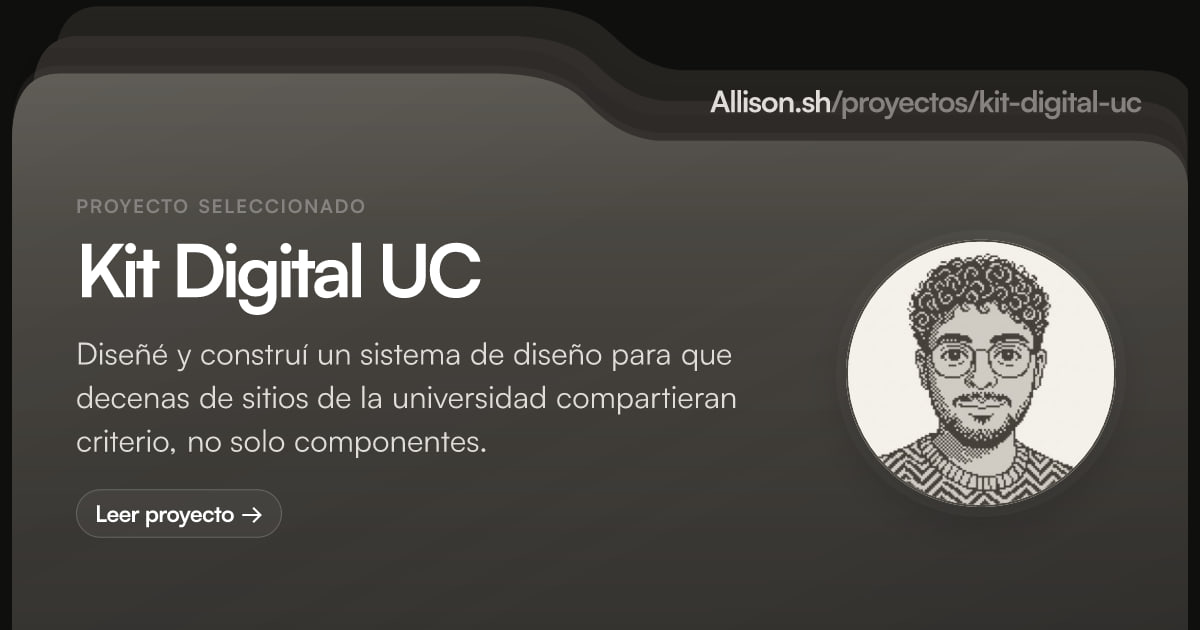
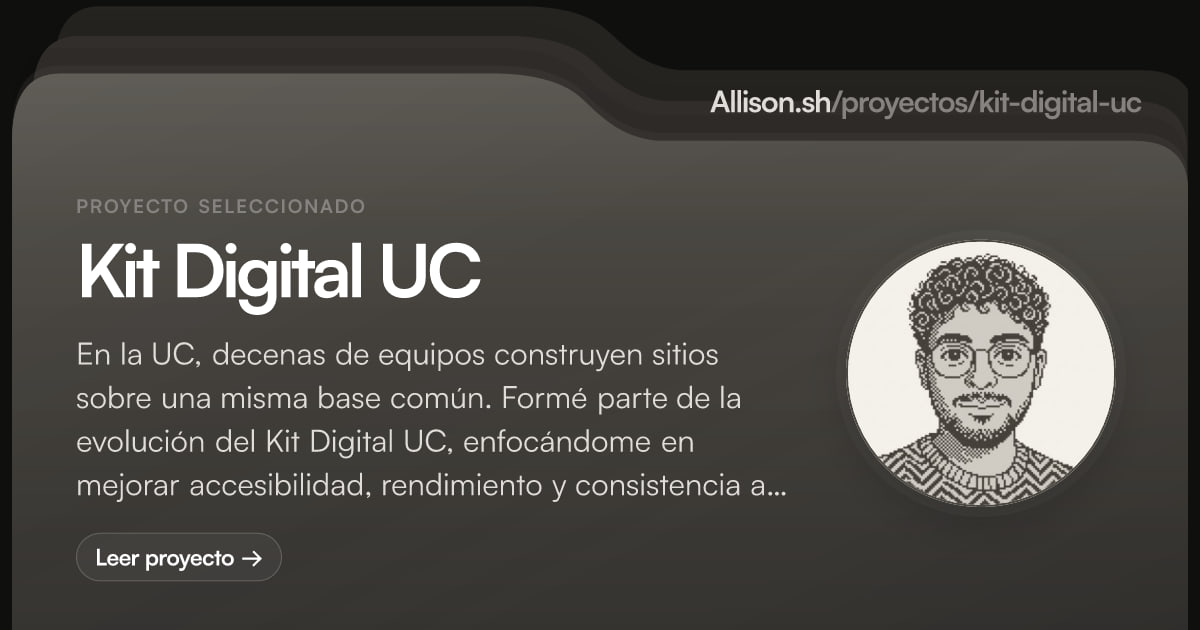
update project styling and layout
- remove duplicate route in astro config
- update project mdx files with new content
- refactor polaroid figure styling and interaction
- adjust viewport gradient

Changed region(s): [[0.0617, 0.5429, 0.6167, 0.7238], [0.0617, 0.754, 0.6475, 0.8444], [0.0617, 0.8746, 0.2158, 0.9048]]

diff --git a/src/styles/global.css b/src/styles/global.css
@@ -144,12 +144,12 @@ body {
   background: linear-gradient(
     to bottom,
     color-mix(in srgb, var(--color-bg) 97%, transparent) 0%,
-    color-mix(in srgb, var(--color-bg) 95%, transparent) 6%,
-    color-mix(in srgb, var(--color-bg) 72%, transparent) 14%,
-    color-mix(in srgb, var(--color-bg) 28%, transparent) 26%,
-    color-mix(in srgb, var(--color-bg) 8%, transparent) 42%,
-    color-mix(in srgb, var(--color-bg) 2%, transparent) 60%,
-    transparent 84%,
+    color-mix(in srgb, var(--color-bg) 95%, transparent) 3%,
+    color-mix(in srgb, var(--color-bg) 72%, transparent) 7%,
+    color-mix(in srgb, var(--color-bg) 28%, transparent) 13%,
+    color-mix(in srgb, var(--color-bg) 8%, transparent) 21%,
+    color-mix(in srgb, var(--color-bg) 2%, transparent) 30%,
+    transparent 42%,
     transparent 100%
   );
 }
@@ -159,13 +159,13 @@ body {
     background: linear-gradient(
       to bottom,
       color-mix(in srgb, var(--color-bg) 88%, transparent) 0%,
-      color-mix(in srgb, var(--color-bg) 80%, transparent) 7%,
-      color-mix(in srgb, var(--color-bg) 54%, transparent) 14%,
-      color-mix(in srgb, var(--color-bg) 24%, transparent) 24%,
-      color-mix(in srgb, var(--color-bg) 9%, transparent) 36%,
-      color-mix(in srgb, var(--color-bg) 3%, transparent) 50%,
-      color-mix(in srgb, var(--color-bg) 1%, transparent) 64%,
-      transparent 82%,
+      color-mix(in srgb, var(--color-bg) 80%, transparent) 3%,
+      color-mix(in srgb, var(--color-bg) 54%, transparent) 7%,
+      color-mix(in srgb, var(--color-bg) 24%, transparent) 12%,
+      color-mix(in srgb, var(--color-bg) 9%, transparent) 18%,
+      color-mix(in srgb, var(--color-bg) 3%, transparent) 25%,
+      color-mix(in srgb, var(--color-bg) 1%, transparent) 32%,
+      transparent 41%,
       transparent 100%
     );
   }
@@ -508,14 +508,10 @@ html.dark #theme-toggle .moon-icon {
 
 .polaroid-figure__frame {
   position: relative;
-  padding: 8px;
-  padding-bottom: var(--polaroid-bottom);
-  background: color-mix(in srgb, var(--color-bg) 90%, var(--color-text) 10%);
-  border: 1px solid color-mix(in srgb, var(--color-text) 3%, transparent);
-  border-radius: 4px;
-  box-shadow:
-    0 1px 3px color-mix(in srgb, var(--color-text) 6%, transparent),
-    0 4px 14px color-mix(in srgb, var(--color-text) 5%, transparent);
+  background: transparent;
+  border-color: transparent;
+  box-shadow: none;
+  padding: 0;
 }
 
 .polaroid-figure__frame {
@@ -540,10 +536,6 @@ html.dark #theme-toggle .moon-icon {
     position: absolute;
     top: 0;
     width: clamp(180px, 17vw, 260px);
-    background: transparent;
-    border-color: transparent;
-    box-shadow: none;
-    padding: 0;
     opacity: 0;
     transform: translateY(10px);
     transition: opacity 600ms ease, transform 600ms cubic-bezier(0.16, 1, 0.3, 1);
@@ -555,9 +547,6 @@ html.dark #theme-toggle .moon-icon {
   }
 
   .polaroid-figure__frame .polaroid-figure__caption {
-    position: static;
-    height: auto;
-    padding: 7px 0 0;
     color: var(--color-text);
   }
 
@@ -596,10 +585,10 @@ html.dark #theme-toggle .moon-icon {
 /* Close button */
 .polaroid-close {
   position: absolute;
-  top: -14px;
-  right: -14px;
-  width: 30px;
-  height: 30px;
+  top: -52px;
+  right: 0px;
+  width: 36px;
+  height: 36px;
   border-radius: 50%;
   background: var(--color-bg);
   border: 1px solid color-mix(in srgb, var(--color-text) 15%, transparent);
@@ -608,15 +597,36 @@ html.dark #theme-toggle .moon-icon {
   align-items: center;
   justify-content: center;
   cursor: pointer;
-  z-index: 1;
+  z-index: 10;
   flex-shrink: 0;
-  box-shadow: 0 2px 8px rgba(0, 0, 0, 0.25);
+  box-shadow: 0 4px 12px rgba(0, 0, 0, 0.3);
   transition: background 150ms ease, color 150ms ease;
 }
 
-.polaroid-close:hover {
-  background: var(--color-text);
-  color: var(--color-bg);
+.polaroid-close svg {
+  width: 14px;
+  height: 14px;
+}
+
+@media (min-width: 768px) {
+  .polaroid-close {
+    top: -16px;
+    right: -16px;
+    width: 30px;
+    height: 30px;
+    box-shadow: 0 2px 8px rgba(0, 0, 0, 0.25);
+  }
+  .polaroid-close svg {
+    width: 12px;
+    height: 12px;
+  }
+}
+
+@media (hover: hover) {
+  .polaroid-close:hover {
+    background: var(--color-text);
+    color: var(--color-bg);
+  }
 }
 
 .polaroid-close:focus-visible {
@@ -687,13 +697,9 @@ html.dark #theme-toggle .moon-icon {
 }
 
 .polaroid-figure__caption {
-  position: absolute;
-  left: 8px;
-  right: 8px;
-  bottom: 0;
-  height: var(--polaroid-bottom);
-  display: flex;
-  align-items: center;
+  position: static;
+  height: auto;
+  padding: 7px 0 0;
   font-family: var(--font-mono);
   font-size: 0.875rem;
   line-height: 1.3;
